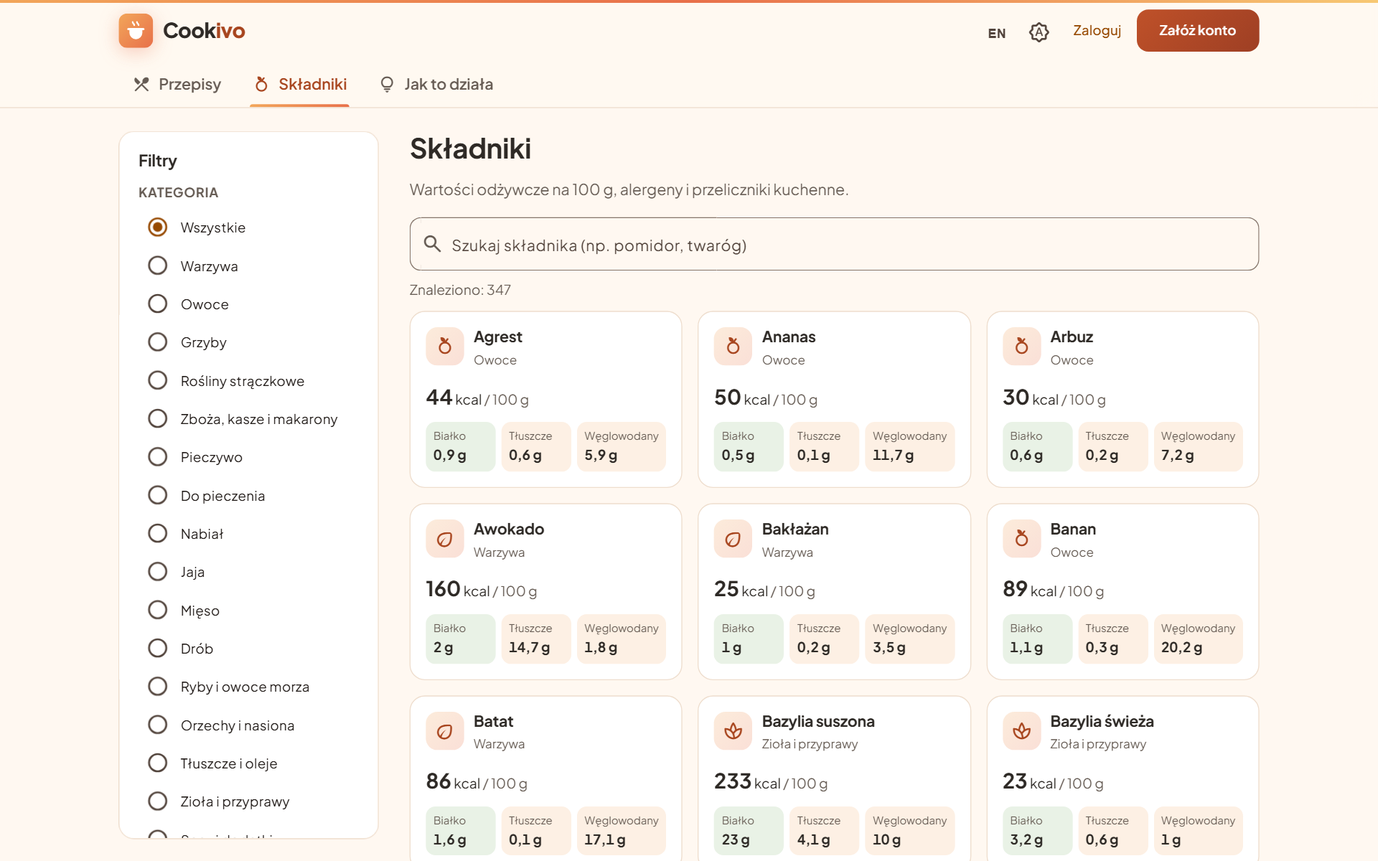
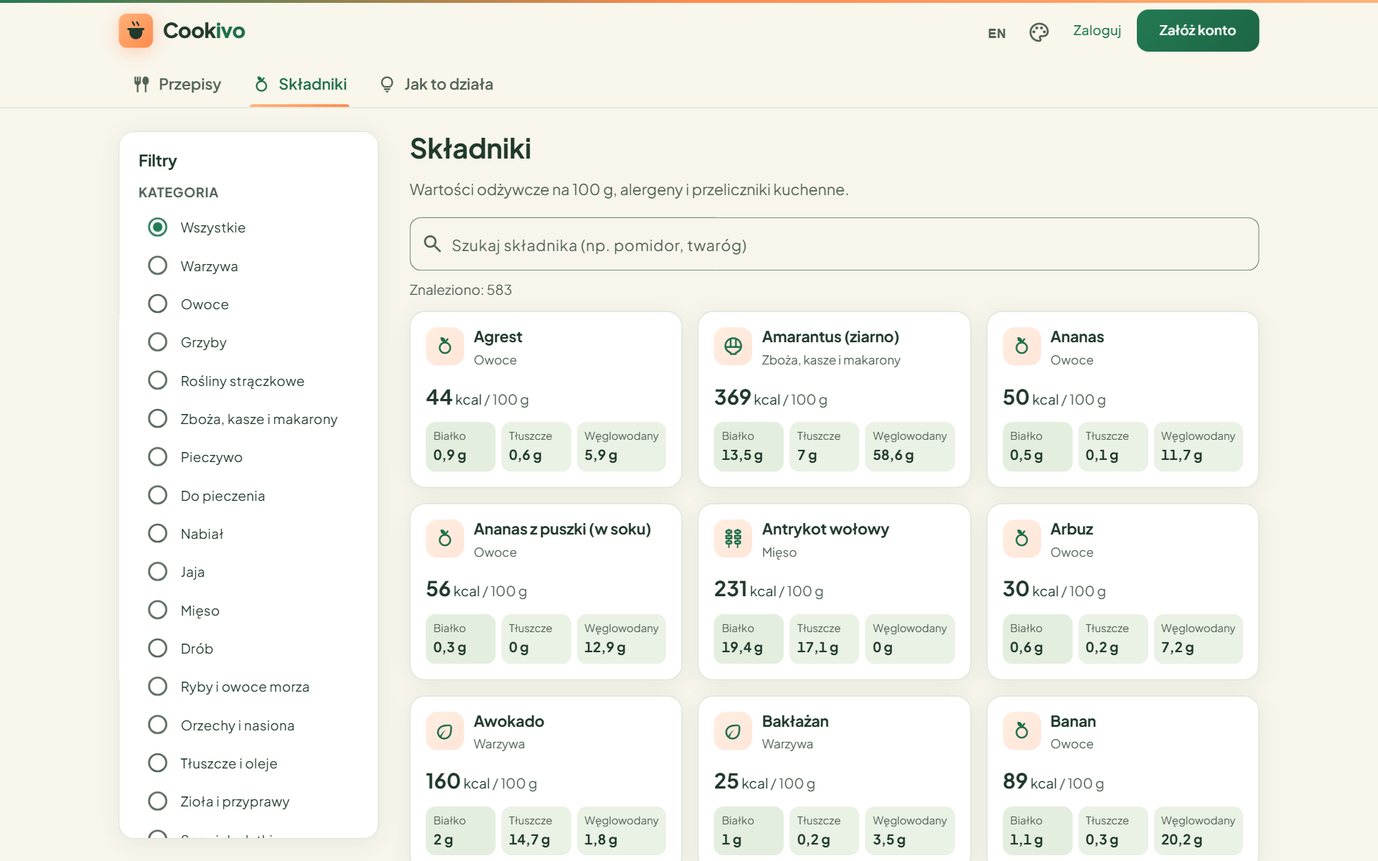
Cookivo: ten LLM features, AI architecture and a new gallery
- Card: full-stack description, "10 AI (LLM) features" highlight,
  Zod instead of Docker in the technologies
- Details: business and AI feature lists, "AI architecture" with the
  key decisions, two new challenges (cooking schedule, receipts),
  583 ingredients, six themes, fridge wording
- Gallery: new home page cover, features grid, assistant and receipt
  previews (labelled as examples), refreshed catalogue and phone shots

diff --git a/src/content/projects/cookivo/project.ts b/src/content/projects/cookivo/project.ts
@@ -9,8 +9,8 @@ export const project: ProjectMeta = {
   developmentStatus: 'in-development',
   title: { pl: 'Cookivo', en: 'Cookivo' },
   shortDescription: {
-    pl: 'Niekomercyjna aplikacja do planowania posiłków: kalkulator zapotrzebowania, przepisy z wartościami odżywczymi i alergenami, spiżarnia i listy zakupów. Działa produkcyjnie i jest stale rozwijana.',
-    en: 'A non-commercial meal-planning app: calorie and macro calculator, recipes with nutrition and allergen data, pantry and shopping lists. Live in production and under active development.',
+    pl: 'Full-stackowa aplikacja do planowania posiłków, przepisów, zakupów i zapasów domowych — z funkcjami opartymi na LLM, od odczytu paragonów po harmonogram gotowania. Niekomercyjna, działa produkcyjnie i jest stale rozwijana.',
+    en: 'A full-stack app for planning meals, recipes, shopping and household stock — with LLM-powered features, from reading receipts to scheduling cooking. Non-commercial, live in production and under active development.',
   },
   technologies: [
     'angular',
@@ -20,43 +20,69 @@ export const project: ProjectMeta = {
     'prisma',
     'postgresql',
     'claude-api',
-    'docker',
+    'zod',
     'playwright',
     'ci-cd',
   ],
   highlight: {
     title: {
-      pl: 'Import przepisów ze zdjęć (AI / LLM)',
-      en: 'Recipe import from photos (AI / LLM)',
+      pl: '10 funkcji AI (LLM) w produkcji',
+      en: '10 AI (LLM) features in production',
     },
     text: {
-      pl: 'Zamiana zdjęć przepisów w edytowalne szkice z automatycznym dopasowaniem składników i oznaczaniem danych wymagających weryfikacji.',
-      en: 'Turn recipe photos into editable drafts with automatic ingredient matching and clear flags for entries requiring review.',
+      pl: 'Odczyt przepisów, paragonów i etykiet, planer z budżetem, harmonogram gotowania — model interpretuje dane, a obliczenia i zapis zostają po stronie backendu.',
+      en: 'Reading recipes, receipts and labels, a budget-aware planner and a cooking schedule — the model interprets the data, while calculations and saving stay in the backend.',
     },
   },
   githubUrl: 'https://github.com/PatrykOzogIT/Cookivo',
   appUrl: 'https://cookivo.pl',
   coverImage: {
-    src: 'projects/cookivo/home-dark.png',
+    src: 'projects/cookivo/cover.png',
     width: 1920,
     height: 1200,
     alt: {
-      pl: 'Strona główna Cookivo w ciemnym motywie: hasło „Jedz smacznie i zgodnie z celem” i wykres makroskładników',
-      en: 'Cookivo home page in the dark theme: the headline and a macronutrient chart',
+      pl: 'Strona główna Cookivo w ciemnym motywie: hasło „Jedz smacznie i zgodnie z celem” i panel 11 modułów aplikacji z podglądem kalkulatora kalorii',
+      en: 'Cookivo home page in a dark theme: the headline and a panel of 11 app modules with a calorie calculator preview',
     },
   },
   images: [
     {
-      src: 'projects/cookivo/home.png',
-      width: 1920,
-      height: 1200,
+      src: 'projects/cookivo/features.png',
+      width: 1653,
+      height: 1489,
       alt: {
-        pl: 'Strona główna Cookivo w jasnym motywie',
-        en: 'Cookivo home page in the light theme',
+        pl: 'Siatka „Możliwości Cookivo”: 11 kart funkcji, m.in. przepisy, baza składników, plan tygodnia, lista zakupów, lodówka, koszty, paragony i asystent',
+        en: 'The “Cookivo features” grid: 11 feature cards, including recipes, the ingredient database, a weekly plan, shopping list, fridge, costs, receipts and the assistant',
       },
       caption: {
-        pl: 'Strona główna — jasny motyw (motyw podąża za ustawieniem systemu)',
-        en: 'Home page — light theme (the theme follows the system setting)',
+        pl: 'Możliwości aplikacji ze strony głównej — od przepisów po funkcje AI',
+        en: 'App features on the home page — from recipes to AI features',
+      },
+    },
+    {
+      src: 'projects/cookivo/assistant.png',
+      width: 816,
+      height: 912,
+      alt: {
+        pl: 'Prezentacja asystenta AI: przykładowa prośba „Śniadania lekkie do pracy, obiady sycące, kolacje na słodko” i propozycja planu',
+        en: 'AI assistant presentation: a sample request for light breakfasts, filling lunches and sweet suppers, and a proposed plan',
+      },
+      caption: {
+        pl: 'Asystent AI — przykład z prezentacji funkcji na stronie głównej',
+        en: 'AI assistant — an example from the feature presentation on the home page',
+      },
+    },
+    {
+      src: 'projects/cookivo/receipts.png',
+      width: 816,
+      height: 944,
+      alt: {
+        pl: 'Prezentacja importu paragonu: przykładowe pozycje z ilościami i cenami do dodania do lodówki i cennika',
+        en: 'Receipt import presentation: sample items with quantities and prices to add to the fridge and price list',
+      },
+      caption: {
+        pl: 'Import paragonu ze zdjęcia — przykład z prezentacji funkcji na stronie głównej',
+        en: 'Receipt import from a photo — an example from the feature presentation on the home page',
       },
     },
     {
@@ -81,8 +107,8 @@ export const project: ProjectMeta = {
         en: 'Ingredient catalogue: category filters, search and cards with calories, protein, fat and carbohydrates per 100 g',
       },
       caption: {
-        pl: 'Katalog składników — wartości odżywcze na 100 g, alergeny i przeliczniki kuchenne',
-        en: 'Ingredient catalogue — nutrition per 100 g, allergens and kitchen unit conversions',
+        pl: 'Katalog składników z baz USDA i Ciqual — wartości na 100 g, alergeny i przeliczniki kuchenne',
+        en: 'Ingredient catalogue from the USDA and Ciqual databases — values per 100 g, allergens and kitchen unit conversions',
       },
     },
     {

diff --git a/src/content/technologies.ts b/src/content/technologies.ts
@@ -24,6 +24,7 @@ export const TECHNOLOGIES = {
   'ci-cd': { label: 'CI/CD' },
   postgresql: { label: 'PostgreSQL' },
   'claude-api': { label: 'Claude API (LLM)' },
+  zod: { label: 'Zod' },
   prisma: { label: 'Prisma' },
   docker: { label: 'Docker' },
   playwright: { label: 'Playwright' },

diff --git a/src/content/projects/cookivo/pl.md b/src/content/projects/cookivo/pl.md
@@ -1,8 +1,10 @@
 # about
 
-**Cookivo** to mój niekomercyjny projekt po godzinach: aplikacja, która liczy dzienne zapotrzebowanie, planuje posiłki na cały tydzień, uwzględnia alergie i zawartość spiżarni, a na koniec układa listę zakupów.
+**Cookivo** to mój niekomercyjny projekt po godzinach: full-stackowa aplikacja do planowania posiłków, zarządzania przepisami, zakupami i zapasami gospodarstwa domowego. Liczy dzienne zapotrzebowanie, planuje posiłki, uwzględnia alergie i zawartość lodówki, a na koniec układa listę zakupów.
 
-Aplikacja działa produkcyjnie pod adresem [cookivo.pl](https://cookivo.pl) i **jest stale rozwijana**. Bez logowania można przejrzeć katalog składników i skorzystać z kalkulatora zapotrzebowania. Pozostałe funkcje wymagają konta.
+Dziesięć funkcji opartych na modelach językowych (LLM) odczytuje przepisy, paragony i etykiety ze zdjęć, układa plany posiłków i harmonogram gotowania — zawsze jako szkic, który zatwierdza użytkownik.
+
+Aplikacja działa produkcyjnie pod adresem [cookivo.pl](https://cookivo.pl) i **jest stale rozwijana**. Bez logowania można przejrzeć przepisy publiczne, katalog składników i kalkulator zapotrzebowania. Pozostałe funkcje wymagają konta.
 
 # problem
 
@@ -11,11 +13,13 @@ Planowanie posiłków zwykle rozkłada się na kilka narzędzi: kalkulator kalor
 1. **Cel**, czyli zapotrzebowanie wyliczone ze sprawdzonego wzoru.
 2. **Przepisy** z automatycznie liczonymi wartościami odżywczymi i alergenami.
 3. **Plan tygodnia** z porcjami dla domowników.
-4. **Lista zakupów**, pomniejszona o to, co już jest w spiżarni.
+4. **Lista zakupów**, pomniejszona o to, co już jest w lodówce.
 
 Wartości odżywcze nie są wpisywane ręcznie. Wynikają ze składników przepisu, więc zmiana składnika lub gramatury od razu zmienia kalorie, makroskładniki i listę alergenów.
 
 # features
+
+## Planowanie, przepisy i zakupy
 
 - **Kalkulator zapotrzebowania**:
   - wzór Mifflina-St Jeora;
@@ -28,21 +32,33 @@ Wartości odżywcze nie są wpisywane ręcznie. Wynikają ze składników przepi
   - wartości odżywcze i alergeny liczone ze składników;
   - tryb gotowania krok po kroku;
   - zdjęcia.
-- **Import przepisów ze zdjęć (AI)**: 1–3 zdjęcia przepisu z książki, odręcznej notatki lub zrzutu ekranu zamieniane w edytowalny szkic; użytkownik sprawdza go i zapisuje.
-- **Katalog składników**: ponad 550 pozycji z baz USDA i Ciqual, z wartościami na 100 g, 14 alergenami UE i przelicznikami jednostek kuchennych; nowe składniki są nadal dodawane.
+- **Katalog składników**: ponad 580 pozycji z baz USDA i Ciqual, z wartościami na 100 g, 14 alergenami UE i przelicznikami jednostek kuchennych; nowe składniki są nadal dodawane.
 - **Planer tygodniowy**: gotowanie na kilka dni naprzód i porcje dopasowane do każdego domownika.
 - **Gospodarstwo domowe**: zaproszenia do wspólnego planowania i alergie domowników brane pod uwagę przy propozycjach.
 - **Grupy znajomych**: dołączanie do grupy po akceptacji jej właściciela i udostępnianie przepisów wybranym grupom.
-- **Spiżarnia** z datami ważności.
-- **Listy zakupów** z planu albo z pojedynczego przepisu, z odjęciem zapasów ze spiżarni.
-- **Cenniki** i szacowanie kosztu zakupów.
+- **Lodówka (zapasy)** z datami ważności.
+- **Listy zakupów** z planu albo z pojedynczego przepisu, z odjęciem zapasów z lodówki; uzupełnianie o produkty kupowane regularnie, liczone z historii zakupów.
+- **Cenniki** z historią cen i szacowanie kosztu porcji, przepisu i planu.
 - **Społeczność**: oceny i warianty przepisów, zgłoszenia treści i kolejka moderacji.
 - **Panel administracyjny**: role (gość, użytkownik, administrator, superadministrator) i blokady kont.
 - **Prywatność (RODO)**: eksport danych i usunięcie konta.
 - **Interfejs**:
   - polski i angielski;
-  - jasny i ciemny motyw;
+  - 6 motywów kolorystycznych, w tym wysoki kontrast;
   - projektowany od wersji mobilnej, z dolną nawigacją na telefonie.
+
+## Funkcje AI (LLM)
+
+- **Import przepisów ze zdjęć** — 1–3 zdjęcia z książki, odręcznej notatki lub zrzutu ekranu zamieniane w edytowalny szkic.
+- **Paragony do lodówki i cennika** — pozycje z paragonu trafiają do zapasów, cennika i historii cen po zatwierdzeniu.
+- **Składnik ze zdjęcia etykiety** — wartości odżywcze i alergeny przeliczone na 100 g, z ostrzeżeniem o możliwym duplikacie.
+- **Asystent** — prośba zwykłym językiem kierowana do właściwego zadania; tematy spoza aplikacji są odrzucane.
+- **Planer z preferencjami i budżetem** — plan na 1–7 dni z przepisów użytkownika, z gotowaniem partiami i kosztem porcji.
+- **Przepisy z lodówki** — do 5 propozycji, najpierw z produktów z kończącym się terminem.
+- **Warianty przepisów** — np. wegańska, bez glutenu, lżejsza, z opisem każdej zmiany.
+- **Dyktowanie listy zakupów** — mowa lub wklejony tekst zamieniane w pozycje listy.
+- **Zamiennik „Nie mam”** — 1–3 zamienniki w trakcie gotowania, z uwzględnieniem lodówki i unikanych alergenów.
+- **Harmonogram gotowania kilku dań** — jedna kolejność kroków dla kilku przepisów naraz.
 
 # architecture
 
@@ -58,25 +74,20 @@ Interfejs zbudowany jest na Angular Material 3 z własnym motywem. Tłumaczenia 
 
 ## Backend
 
-NestJS z podziałem na moduły domenowe, m.in. przepisy, składniki, planer, spiżarnia, zakupy, ceny, gospodarstwo domowe, moderacja i konta. Dostęp do danych zapewnia Prisma, a baza to PostgreSQL. Schemat ewoluuje przez wersjonowane migracje.
+NestJS z podziałem na moduły domenowe, m.in. przepisy, składniki, planer, lodówka, zakupy, ceny, paragony, etykiety, asystent, gospodarstwo domowe, grupy, moderacja i konta. Dostęp do danych zapewnia Prisma, a baza to PostgreSQL. Schemat ewoluuje przez wersjonowane migracje.
 
-## Import przepisów ze zdjęć z wykorzystaniem AI
+## Architektura funkcji AI
 
-Zaprojektowałem funkcję, która zamienia 1–3 zdjęcia przepisu w edytowalny formularz. To nie jest agent AI: multimodalny model językowy (LLM) jest wywoływany raz, jako inteligentny parser, a dalszą weryfikację wykonuje deterministyczny kod aplikacji.
+Wszystkie funkcje AI korzystają z jednej warstwy integracji z Claude API, a model jest używany tam, gdzie wnosi wartość: przy interpretacji zdjęć, tekstu i preferencji. To nie jest agent — każde zadanie to jedno wywołanie modelu, a resztę wykonuje deterministyczny kod aplikacji.
 
-1. **Odczyt** — jedno wywołanie Claude API z obrazami; wynik w strukturze wymuszonej schematem Zod (structured outputs).
-2. **Weryfikacja** — backend NestJS sprawdza dane, dopasowuje składniki do bazy PostgreSQL (wyszukiwanie rozmyte pg_trgm) i kontroluje jednostki według istniejących reguł domenowych.
-3. **Szkic** — wynik wypełnia formularz przepisu (Angular Reactive Forms); niepewne odczyty, składniki bez pewnego dopasowania i niezgodne jednostki są oznaczone.
-4. **Decyzja użytkownika** — AI przygotowuje wyłącznie szkic; przepis zapisuje użytkownik po sprawdzeniu.
-
-Rozwiązanie obejmuje też:
-
-- **koszty** — zmniejszanie zdjęć przed wysłaniem, limity wywołań i rejestr zużycia tokenów;
-- **prywatność** — zdjęcia nie są przechowywane;
-- **bezpieczeństwo** — tekst ze zdjęć jest traktowany wyłącznie jako dane, z ochroną przed prompt injection;
-- **testy** — testy backendu i Playwright bez rzeczywistych, płatnych wywołań modelu.
-
-Funkcja działa produkcyjnie, a jej dostępność zależy od konfiguracji API. Trwają pierwsze testy jakości odczytu na rzeczywistych zdjęciach.
+- **Structured outputs + Zod** — każda odpowiedź ma wymuszony schemat; nie ma swobodnego parsowania tekstu.
+- **Rozdzielenie AI i logiki biznesowej** — model interpretuje dane i wybiera, a backend liczy ceny, wartości odżywcze, godziny harmonogramu i listy zakupów oraz zapisuje wynik.
+- **Kontrola halucynacji** — model wybiera istniejące kody przepisów, kroków i jednostek, a serwer odrzuca nieznane; czego nie odczytano, zostaje puste, nie zgadnięte.
+- **Human-in-the-loop** — wyniki trafiają do edytowalnych szkiców; plan, zakupy, paragon i przepis zapisuje użytkownik.
+- **Koszty** — Haiku do odczytu i wyboru, Sonnet do wariantów i harmonogramu, prompt caching stałego kontekstu, zmniejszanie zdjęć (sharp), limity dzienne i miesięczne oraz rejestr tokenów.
+- **Pamięć powiązań z paragonów** — zatwierdzone przez użytkowników dopasowania pozycji są zapamiętywane, więc te same produkty nie wymagają ponownego rozpoznawania.
+- **Bezpieczeństwo** — tekst użytkownika i ze zdjęć jest traktowany wyłącznie jako dane, z ochroną przed prompt injection.
+- **Prywatność i testy** — zdjęcia bez metadanych i bez przechowywania; cel kcal i alergeny trafiają do modelu tylko za zgodą zdrowotną; testy jednostkowe, integracyjne i E2E bez płatnych wywołań modelu.
 
 ## Środowiska
 
@@ -98,6 +109,18 @@ Funkcja działa produkcyjnie, a jej dostępność zależy od konfiguracji API. T
   4. na koniec sprawdza, czy wdrożona wersja odpowiada (smoke test).
 
 # challenges
+
+## Harmonogram gotowania kilku dań
+
+Gotowanie kilku dań naraz to problem kolejności: co zacząć najpierw, co zrobić, gdy coś się piecze. Model (Sonnet) proponuje kolejność kroków wszystkich dań i czasy pracy, ale **godziny wylicza serwer**, pilnując zasad, których model mógłby nie dotrzymać:
+
+- jedna osoba robi rękami jedną rzecz naraz;
+- kolejny krok dania zaczyna się dopiero po czasie „w tle” poprzedniego (pieczenie, duszenie);
+- kolejność kroków w każdym daniu zawsze jak w przepisie.
+
+## Paragon: od zdjęcia do cennika
+
+Model odczytuje pozycje paragonu, ale kwoty liczy kod: z każdej pozycji powstaje „N opakowań × wielkość opakowania po cenie”, w groszach. Niezgodność ilości, ceny i wartości, brak ceny albo wielkości opakowania są oznaczane do sprawdzenia. Pozycje są dopasowywane do bazy składników z pomocą pamięci powiązań, a zatwierdzenie zapisuje w jednej transakcji lodówkę, cennik i historię cen.
 
 ## Baza danych za zablokowanym portem
 

diff --git a/src/content/projects/cookivo/en.md b/src/content/projects/cookivo/en.md
@@ -1,8 +1,10 @@
 # about
 
-**Cookivo** is my non-commercial side project: an app that works out your daily needs, plans meals for the whole week, takes allergies and your pantry into account, and then builds the shopping list.
+**Cookivo** is my non-commercial side project: a full-stack app for planning meals and managing recipes, shopping and household stock. It works out your daily needs, plans meals, takes allergies and what’s in your fridge into account, and then builds the shopping list.
 
-The app is live at [cookivo.pl](https://cookivo.pl) and is **under active development**. Without an account you can browse the ingredient catalogue and use the needs calculator. Everything else requires an account.
+Ten features powered by large language models (LLMs) read recipes, receipts and labels from photos and build meal plans and cooking schedules — always as a draft the user approves.
+
+The app is live at [cookivo.pl](https://cookivo.pl) and is **under active development**. Without an account you can browse public recipes, the ingredient catalogue and the needs calculator. Everything else requires an account.
 
 # problem
 
@@ -11,11 +13,13 @@ Meal planning is usually spread across several tools: a calorie calculator, reci
 1. A **goal**: daily needs calculated with an established equation.
 2. **Recipes** with nutrition and allergens calculated automatically.
 3. A **weekly plan** with portions for each household member.
-4. A **shopping list**, minus what is already in the pantry.
+4. A **shopping list**, minus what is already in the fridge.
 
 Nutrition values are never typed in by hand. They follow from a recipe's ingredients, so changing an ingredient or an amount immediately updates calories, macros and the allergen list.
 
 # features
+
+## Planning, recipes and shopping
 
 - **Needs calculator**:
   - the Mifflin-St Jeor equation;
@@ -28,21 +32,33 @@ Nutrition values are never typed in by hand. They follow from a recipe's ingredi
   - nutrition and allergens calculated from the ingredients;
   - a step-by-step cooking mode;
   - photos.
-- **Recipe import from photos (AI)**: 1–3 photos of a recipe from a cookbook, a handwritten note or a screenshot turned into an editable draft; the user reviews and saves it.
-- **Ingredient catalogue**: over 550 items from the USDA and Ciqual databases, with values per 100 g, the 14 EU allergens and kitchen unit conversions; new ingredients are still being added.
+- **Ingredient catalogue**: over 580 items from the USDA and Ciqual databases, with values per 100 g, the 14 EU allergens and kitchen unit conversions; new ingredients are still being added.
 - **Weekly planner**: batch cooking and portions tailored to each household member.
 - **Households**: invitations to plan together, with members' allergies taken into account in suggestions.
 - **Friend groups**: joining a group after its owner's approval and sharing recipes with selected groups.
-- **Pantry** with expiry dates.
-- **Shopping lists** from the plan or from a single recipe, minus what is in the pantry.
-- **Price lists** and shopping cost estimates.
+- **Fridge (household stock)** with expiry dates.
+- **Shopping lists** from the plan or from a single recipe, minus what is in the fridge; topped up with regularly bought products based on purchase history.
+- **Price lists** with price history, and cost estimates per serving, recipe and plan.
 - **Community**: ratings and recipe variants, content reports and a moderation queue.
 - **Admin panel**: roles (guest, user, admin, super admin) and account blocking.
 - **Privacy (GDPR)**: data export and account deletion.
 - **Interface**:
   - Polish and English;
-  - light and dark theme;
+  - six colour themes, including high contrast;
   - mobile-first, with bottom navigation on phones.
+
+## AI features (LLM)
+
+- **Recipe import from photos** — 1–3 photos of a cookbook page, a handwritten note or a screenshot become an editable draft.
+- **Receipts to fridge and price list** — receipt items go to household stock, the price list and price history once approved.
+- **Ingredient from a label photo** — nutrition and allergens converted to per-100 g values, with a possible-duplicate warning.
+- **Assistant** — plain-language requests routed to the right task; off-topic requests are declined.
+- **Planner with preferences and budget** — a 1–7 day plan from the user’s recipes, with batch cooking and cost per serving.
+- **Recipes from the fridge** — up to five suggestions, prioritising items close to their expiry date.
+- **Recipe variants** — e.g. vegan, gluten-free or lighter, with each change explained.
+- **Shopping list dictation** — speech or pasted text turned into list items.
+- **“I don’t have it” substitutes** — 1–3 substitutes while cooking, using what’s in the fridge and avoiding flagged allergens.
+- **Cooking schedule for several dishes** — one sequence of steps across multiple recipes.
 
 # architecture
 
@@ -58,25 +74,20 @@ The UI is built with Angular Material 3 and a custom theme. Transloco handles th
 
 ## Backend
 
-NestJS split into domain modules, including recipes, ingredients, planner, pantry, shopping, prices, households, moderation and accounts. Data access goes through Prisma, and the database is PostgreSQL. The schema evolves through versioned migrations.
+NestJS split into domain modules, including recipes, ingredients, planner, fridge, shopping, prices, receipts, labels, assistant, households, groups, moderation and accounts. Data access goes through Prisma, and the database is PostgreSQL. The schema evolves through versioned migrations.
 
-## AI-powered recipe import from photos
+## AI architecture
 
-I designed a feature that turns 1–3 recipe photos into an editable form. It is not an AI agent: a vision-capable large language model (LLM) is called once, as an intelligent parser, and deterministic application code handles the verification that follows.
+All AI features share one Claude API integration layer, and the model is used where it adds real value: interpreting photos, text and preferences. It is not an agent — each task is a single model call, and deterministic application code does the rest.
 
-1. **Reading** — a single Claude API call with the images; the result is structured by a Zod schema (structured outputs).
-2. **Verification** — the NestJS backend checks the data, matches ingredients against PostgreSQL (pg_trgm fuzzy search) and validates units against the existing domain rules.
-3. **Draft** — the result fills in the recipe form (Angular Reactive Forms); uncertain readings, ingredients without a confident match and incompatible units are flagged.
-4. **User decision** — AI produces a draft only; the user saves the recipe after reviewing it.
-
-The implementation also covers:
-
-- **costs** — photos are downsized before sending, with rate limits and token usage tracking;
-- **privacy** — photos are not stored;
-- **security** — text in the photos is treated as data only, with prompt-injection defenses;
-- **tests** — backend and Playwright tests without real, paid model calls.
-
-The feature is live in production; its availability depends on the API configuration. First quality tests of reading real photos are under way.
+- **Structured outputs + Zod** — every response follows an enforced schema; no free-form text parsing.
+- **AI separated from business logic** — the model interprets and selects; the backend calculates prices, nutrition, schedule times and shopping lists, and persists the result.
+- **Hallucination control** — the model picks existing recipe, step and unit codes, and the server rejects unknown ones; anything unreadable stays empty rather than guessed.
+- **Human in the loop** — results land in editable drafts; the user saves plans, shopping lists, receipts and recipes.
+- **Cost control** — Haiku for reading and selection, Sonnet for variants and scheduling, prompt caching for static context, image downscaling (sharp), daily and monthly limits and token tracking.
+- **Receipt match memory** — user-approved item matches are remembered, so the same products don’t need to be recognised again.
+- **Security** — user text and text in photos are treated as data only, with prompt-injection defenses.
+- **Privacy and testing** — photos are stripped of metadata and never stored; calorie targets and allergens reach the model only with health-data consent; unit, integration and E2E tests run without paid model calls.
 
 ## Environments
 
@@ -98,6 +109,18 @@ The feature is live in production; its availability depends on the API configura
   4. finally checks that the deployed version responds (smoke test).
 
 # challenges
+
+## Cooking several dishes at once
+
+Cooking several dishes at once is a sequencing problem: what to start first, and what to do while something is in the oven. The model (Sonnet) proposes the order of all steps and the hands-on times, but **the server calculates the clock times**, enforcing rules the model might not keep:
+
+- one person does one hands-on task at a time;
+- a dish’s next step starts only after the previous step’s background time (baking, simmering);
+- steps within each dish always follow the recipe order.
+
+## Receipts: from photo to price list
+
+The model reads the receipt lines, but the amounts are calculated in code: each line becomes “N packages × package size at a price”, in cents. Quantity, price and total mismatches, missing prices and missing package sizes are flagged for review. Lines are matched to the ingredient database with the help of the match memory, and approval writes the fridge, the price list and the price history in a single transaction.
 
 ## A database behind a blocked port
 
